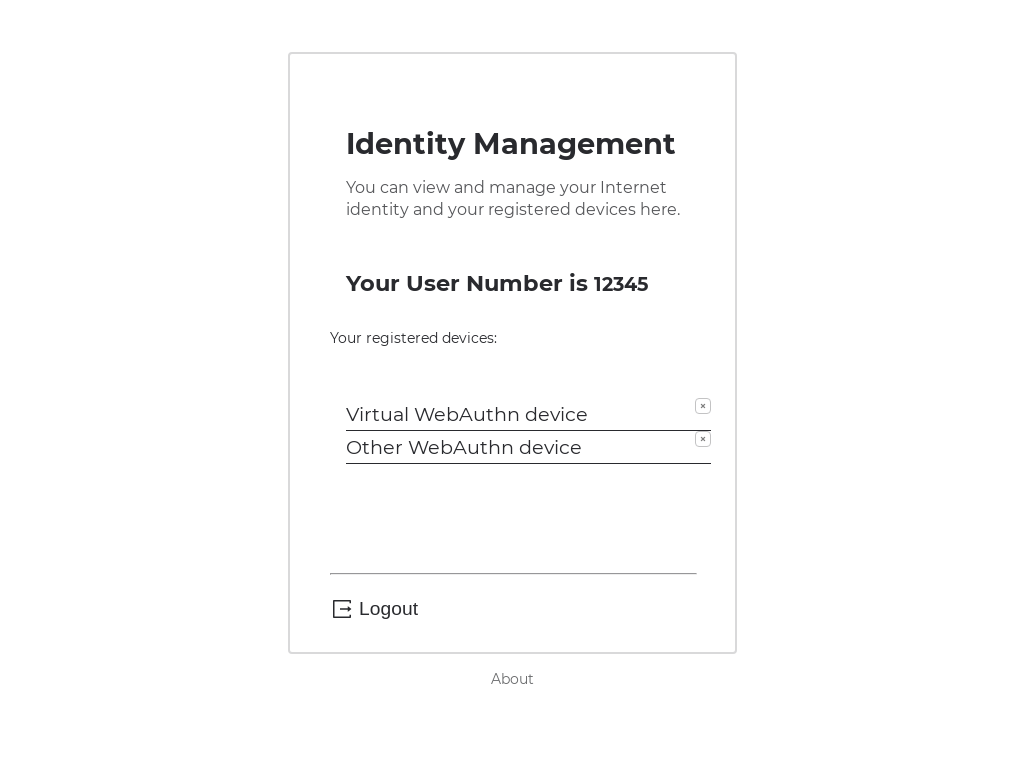
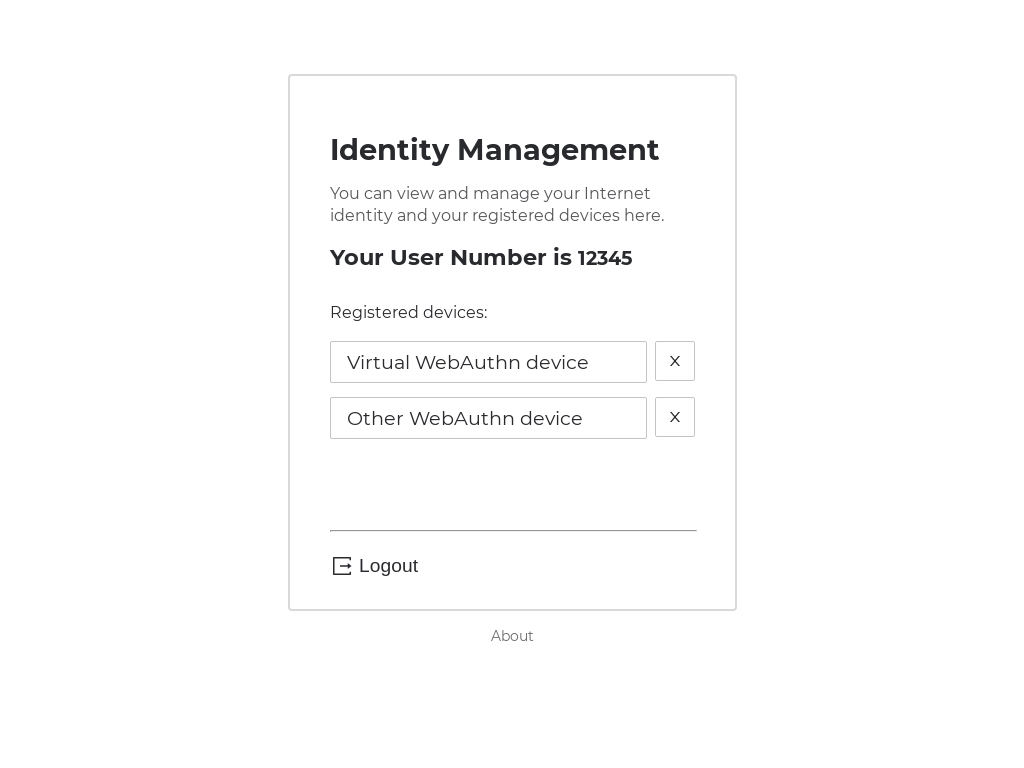
Styles the manage page according to the designs (#202)
* styles the manage page according to Pim's designs

* adjust selenium selector

* remove unnecessary scrollbar

* Updating selenium screenshots

diff --git a/src/frontend/src/flows/manage.ts b/src/frontend/src/flows/manage.ts
@@ -1,48 +1,26 @@
 import { render, html } from "lit-html";
-import { identityListItem } from "../components/identityListItem";
 import { IDPActor } from "../utils/idp_actor";
 import { derBlobFromBlob, blobFromUint8Array } from "@dfinity/agent";
 import { withLoader } from "../components/loader";
 import { initLogout, logoutSection } from "../components/logout";
 import { aboutLink } from "../components/aboutLink";
+import { DeviceData } from "../../generated/idp_types";
+import { closeIcon } from "../components/icons";
 
 const pageContent = () => html`<style>
-    #userNumberSection {
-      padding-top: 0;
-      padding-bottom: 0;
-    }
-    button[title="Remove identity"] {
-      position: relative;
-      padding: 0.25rem;
-      height: 1rem;
-      width: 1rem;
-      display: flex;
-      flex-direction: column;
-      justify-content: center;
-      align-items: center;
-    }
-    @media (prefers-color-scheme: dark) {
-      path {
-        stroke: var(--text-color);
-      }
-    }
-    #identityList {
-      max-width: 500px;
-    }
-    #identityList li {
-      border-bottom: 1px solid var(--text-color);
-    }
+  #deviceLabel {
+    margin-top: 1rem;
+    margin-bottom: 0;
+    font-size: 1rem;
+    font-weight: 500;
+  }
   </style>
   <div class="container">
-    <section id="intro">
-      <h1>Identity Management</h1>
-      <p>You can view and manage your Internet identity and your registered devices here.</p>
-    </section>
-    <section id="userNumberSection" class="hidden">
-      <h3>Your User Number is <span id="userNumberSpan"></span></h3>
-    </section>
-    <label>Your registered devices:</label>
-    <section id="identityList"></section>
+    <h1>Identity Management</h1>
+    <p>You can view and manage your Internet identity and your registered devices here.</p>
+    <h3>Your User Number is <span id="userNumberSpan"></span></h3>
+    <label id="deviceLabel">Registered devices:</label>
+    <div id="deviceList"></div>
     ${logoutSection()}
   </div>
   ${aboutLink}
@@ -68,6 +46,15 @@ const pageContent = () => html`<style>
     </form>
   </web-dialog>`;
 
+const deviceListItem = (alias) => html`
+<div class="deviceItem">
+  <div class="deviceItemAlias">${alias}</div>
+  <button type="button" class="deviceItemRemove">
+    ${closeIcon}
+  </button>
+</div>
+`;
+
 export const renderManage = (userNumber: bigint, connection: IDPActor) => {
   const container = document.getElementById("pageContent") as HTMLElement;
 
@@ -85,13 +72,11 @@ export const init = async (userNumber, connection) => {
 const displayUserNumber = (userNumber: BigInt) => {
   const userNumberElem = document.getElementById("userNumberSpan") as HTMLElement;
   userNumberElem.innerHTML = userNumber.toString();
-  const userNumberSection = document.getElementById("userNumberSection") as HTMLElement;
-  userNumberSection.classList.remove("hidden");
 };
 
 const renderIdentities = async (connection, userNumber) => {
-  const identityList = document.getElementById("identityList") as HTMLElement;
-  identityList.innerHTML = ``;
+  const deviceList = document.getElementById("deviceList") as HTMLElement;
+  deviceList.innerHTML = ``;
 
   const identities = await IDPActor.lookup(userNumber);
 
@@ -100,12 +85,12 @@ const renderIdentities = async (connection, userNumber) => {
   identities.forEach((identity) => {
     const identityElement = document.createElement("li");
     identityElement.className = "flex row justify-between";
-    identityElement.innerHTML = identityListItem(identity.alias);
+    render(deviceListItem(identity.alias), identityElement);
     bindRemoveListener(userNumber, connection, identityElement, identity.pubkey);
     list.appendChild(identityElement);
   });
 
-  identityList.appendChild(list);
+  deviceList.appendChild(list);
 };
 
 const bindRemoveListener = (

diff --git a/src/frontend/src/components/icons.ts b/src/frontend/src/components/icons.ts
@@ -59,3 +59,9 @@ export const icLogo = html`
 </g>
 </svg>
 `
+
+export const closeIcon = html`
+<svg class="closeIcon" width="16" height="16" viewBox="0 0 16 16" fill="none" xmlns="http://www.w3.org/2000/svg">
+	<path d="M8.8095 8L12.9111 3.11094C12.9798 3.02969 12.922 2.90625 12.8158 2.90625H11.5689C11.4954 2.90625 11.4251 2.93906 11.3767 2.99531L7.99388 7.02813L4.61106 2.99531C4.56419 2.93906 4.49388 2.90625 4.41888 2.90625H3.172C3.06575 2.90625 3.00794 3.02969 3.07669 3.11094L7.17825 8L3.07669 12.8891C3.06129 12.9072 3.05141 12.9293 3.04822 12.9529C3.04503 12.9764 3.04867 13.0004 3.05871 13.022C3.06874 13.0435 3.08475 13.0617 3.10483 13.0745C3.12492 13.0872 3.14823 13.0939 3.172 13.0938H4.41888C4.49231 13.0938 4.56263 13.0609 4.61106 13.0047L7.99388 8.97188L11.3767 13.0047C11.4236 13.0609 11.4939 13.0938 11.5689 13.0938H12.8158C12.922 13.0938 12.9798 12.9703 12.9111 12.8891L8.8095 8Z" fill="#262626"/>
+</svg>
+`

diff --git a/src/frontend/src/styles/main.css b/src/frontend/src/styles/main.css
@@ -221,7 +221,7 @@ label {
   }
 }
 
-main::before{
+main::before {
   content: '';
   display: block;
   flex-grow: 1;
@@ -393,4 +393,28 @@ hr {
   color: var(--grey-600);
   margin-top: 1rem;
   font-size: 0.875rem;
+}
+
+.deviceItem {
+  display: flex;
+  width: 100%;
+}
+.deviceItemAlias {
+  border: 1px solid var(--grey-200);
+  border-radius: 2px;
+  height: 40px;
+  display: flex;
+  align-items: center;
+  flex: 1 1 auto;
+  margin-right: 0.5rem;
+  padding-left: 1rem;
+}
+.deviceItemRemove {
+  border-radius: 2px;
+  padding: 0;
+  width: 40px;
+  height: 40px;
+  display: flex;
+  align-items: center;
+  justify-content: center;
 }

diff --git a/src/frontend/src/selenium.test.ts b/src/frontend/src/selenium.test.ts
@@ -114,7 +114,7 @@ async function on_RegisterShowNumber_Fixup(driver: ThenableWebDriver) {
 
 async function on_Main(device_name : string, driver : ThenableWebDriver) {
     // wait for device list to load
-    await driver.wait(until.elementLocated(By.xpath(`//span[string()='${device_name}']`)), 3_000);
+    await driver.wait(until.elementLocated(By.xpath(`//div[string()='${device_name}']`)), 3_000);
 }
 
 async function on_Main_Logout(driver : ThenableWebDriver) {
